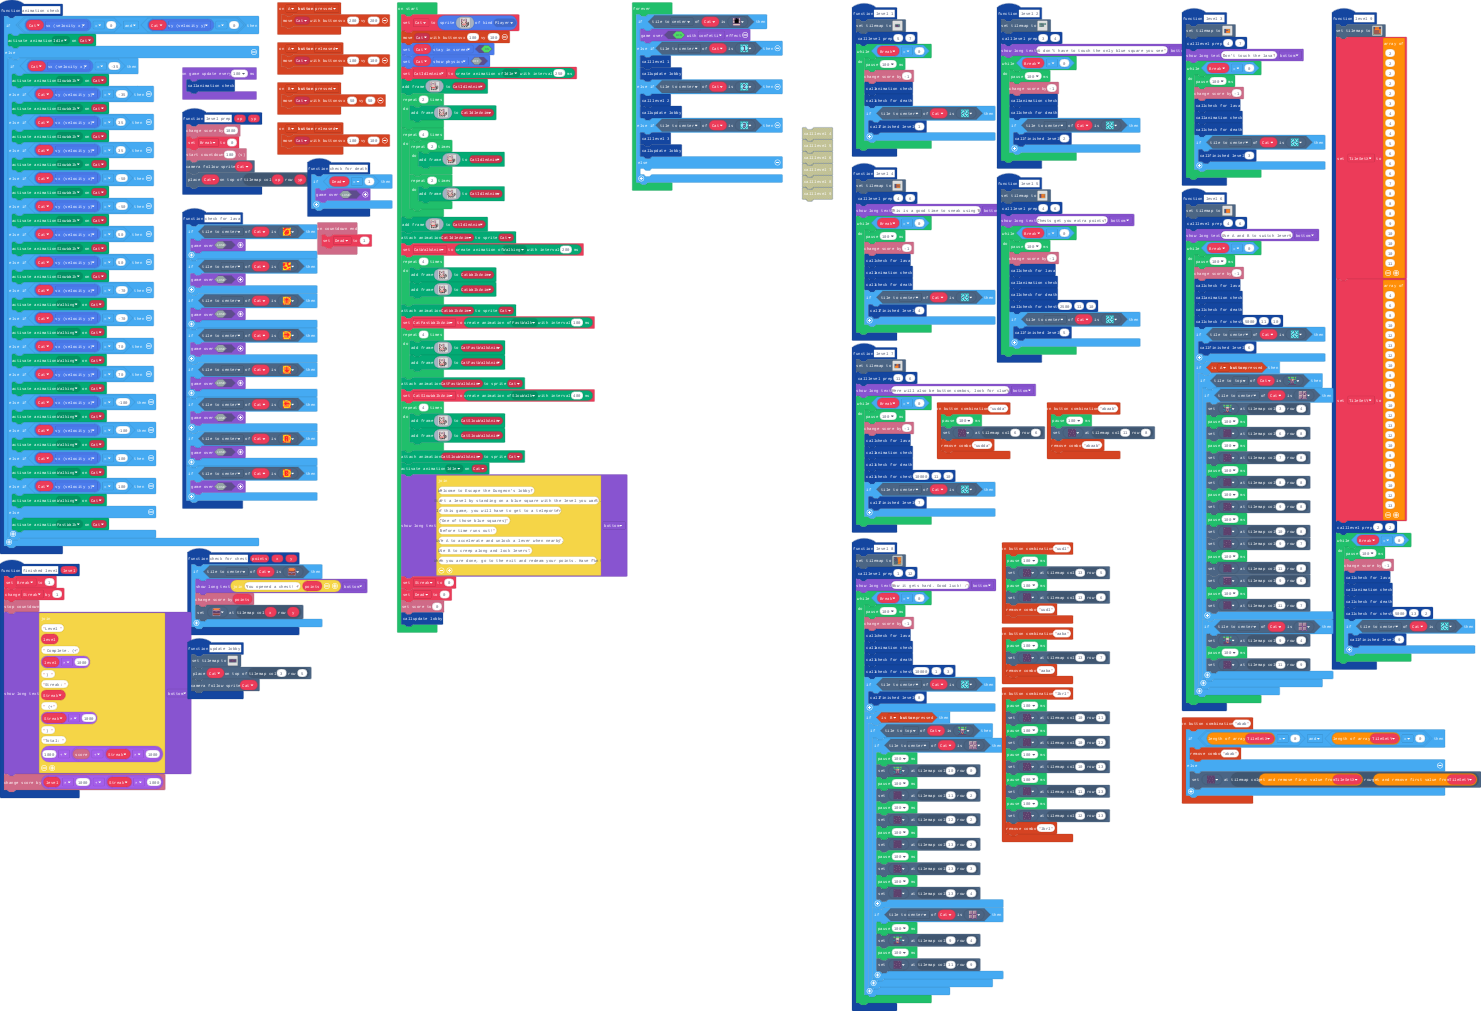
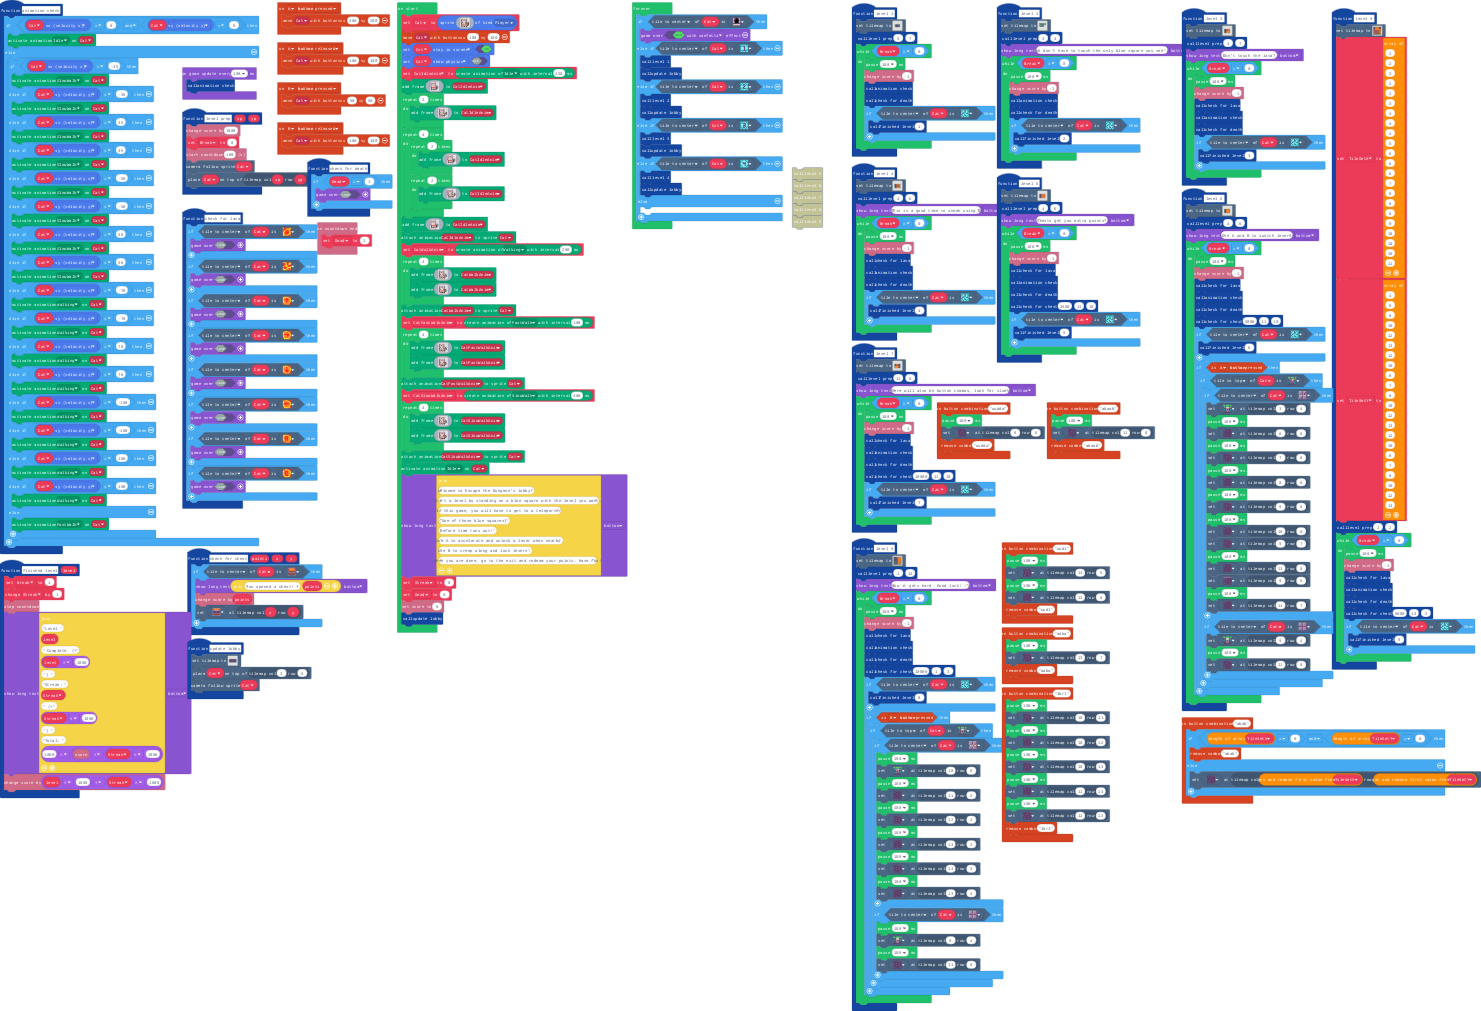
Update main.blocks, main.ts

Changed region(s): [[0.4038, 0.1227, 0.5901, 0.2453]]

diff --git a/main.ts b/main.ts
@@ -1253,6 +1253,9 @@ forever(function () {
     } else if (Cat.tileKindAt(TileDirection.Center, myTiles.tile11)) {
         level_3()
         update_lobby()
+    } else if (Cat.tileKindAt(TileDirection.Center, myTiles.tile12)) {
+        level_4()
+        update_lobby()
     } else {
     	
     }
